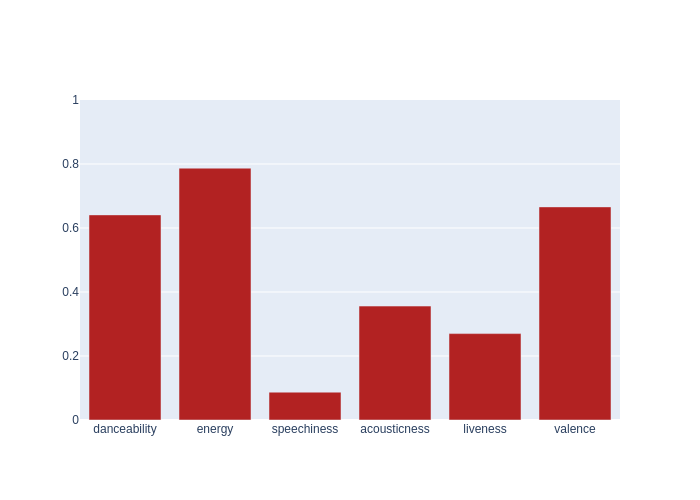
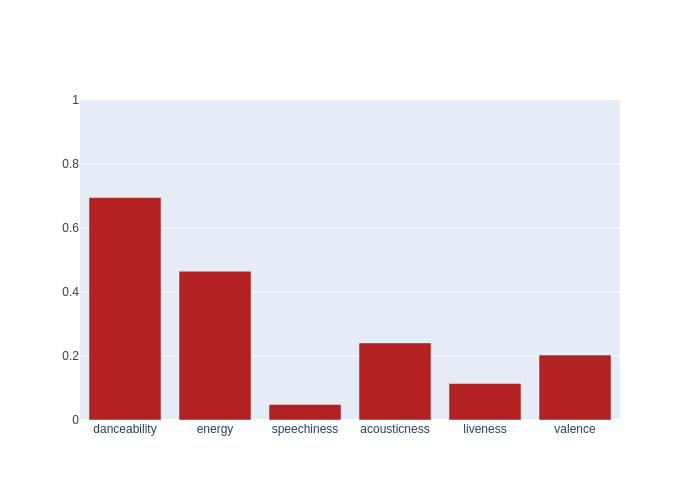
Automated README update

Changed region(s): [[0.51, 0.39, 0.87, 0.78], [0.12, 0.33, 0.36, 0.57], [0.36, 0.78, 0.51, 0.81]]

diff --git a/README.md b/README.md
@@ -4,7 +4,7 @@ Automated music metrics for fun, updated hourly.
 
 ## Spotify
 
-- currently listening to **Masked Wolf - Razor's Edge (feat. X Ambassadors)**
+- currently listening to **guccihighwaters - lately**
 
 - **920** liked songs
 - **154** playlists
